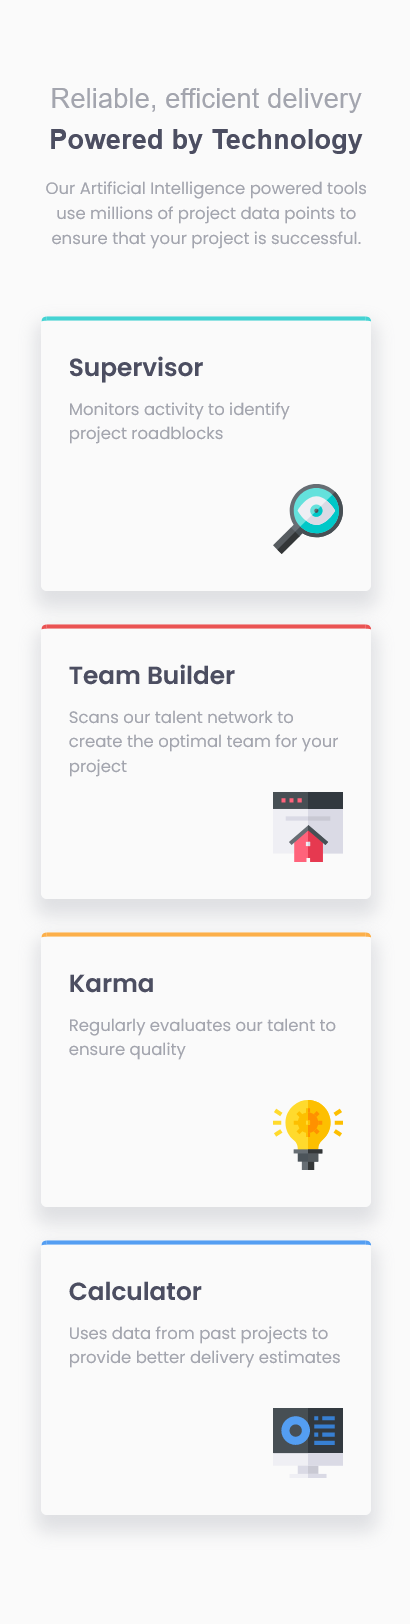
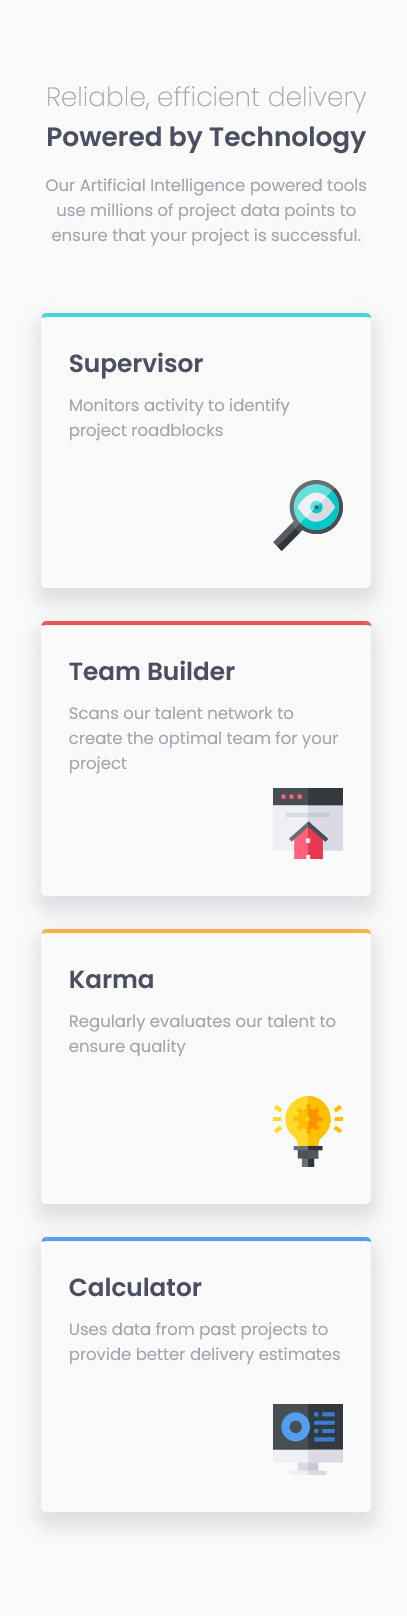
last edit, i promise

diff --git a/style.css b/style.css
@@ -78,15 +78,18 @@ header {
 }
 
 header h1 {
-  font-size: 25px;
+  font-size: 24px;
   font-weight: normal;
   color: var(--grayish-blue);
+  font-family: "Poppins";
+  font-weight: 100;
 }
 
 header h2 {
-  font-size: 25px;
+  font-size: 24px;
   color: var(--very-dark-blue);
   margin-bottom: 15px;
+  font-family: "Poppins";
 }
 
 header h3 {
